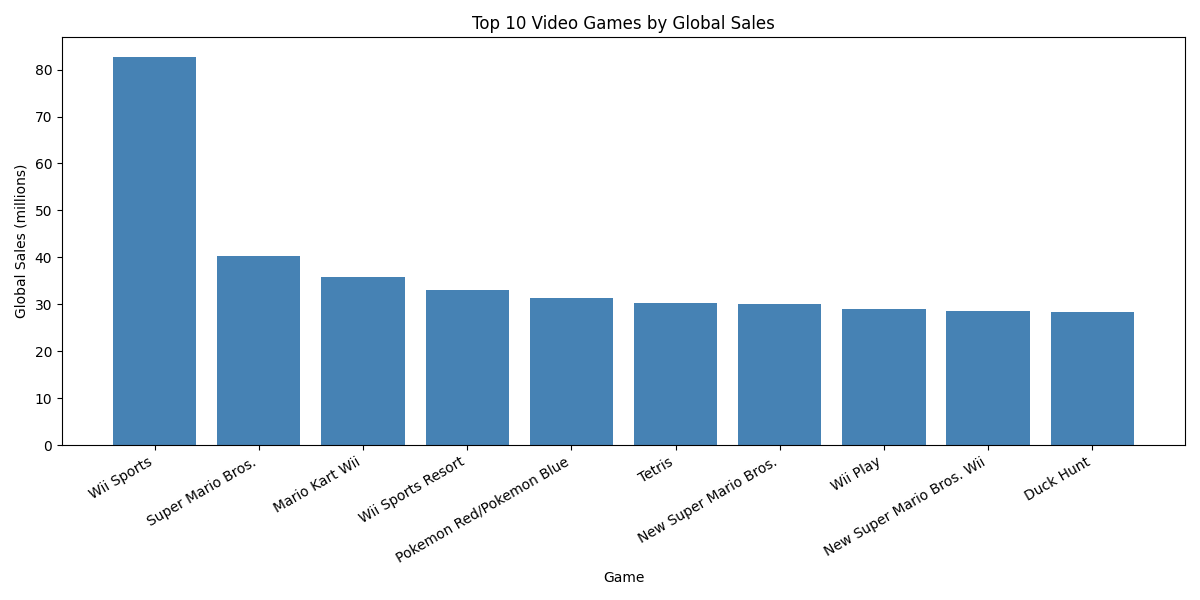
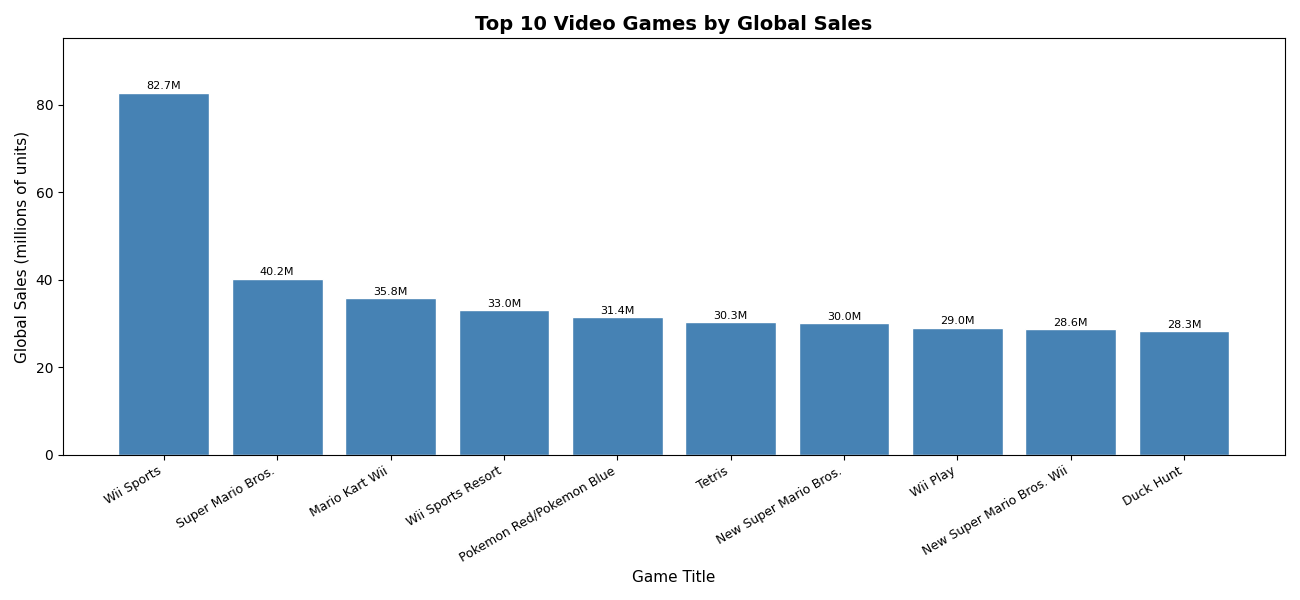
Expand analysis to 100+ lines, add time log and third chart to README

diff --git a/analysis.py b/analysis.py
@@ -1,35 +1,156 @@
+# =============================================================================
+# analysis.py — Video Game Sales Data Analysis
+# Course  : CSE 310 Applied Programming — BYU-Idaho
+# Author  : Tro Opong Ebenezer Jules Samuel
+# Date    : May 2026
+#
+# Description:
+#   Loads the vgsales.csv dataset and produces several analyses:
+#     1. Top 10 best-selling video games globally (bar chart)
+#     2. Total global sales by genre (bar chart)
+#     3. Top 5 publishers by global sales (bar chart)
+#     4. Summary statistics printed to the console
+#   All charts are saved as PNG files inside the output/ folder.
+# =============================================================================
+
 import os
 import pandas as pd
-import matplotlib
-matplotlib.use("Agg")
 import matplotlib.pyplot as plt
 
-os.makedirs("output", exist_ok=True)
+# ------------------------------------------------------------------
+# Setup — create the output directory if it does not already exist
+# ------------------------------------------------------------------
+OUTPUT_DIR = "output"
+os.makedirs(OUTPUT_DIR, exist_ok=True)
 
+# ------------------------------------------------------------------
+# Load dataset
+# The CSV contains: Rank, Name, Platform, Year, Genre, Publisher,
+# NA_Sales, EU_Sales, JP_Sales, Other_Sales, Global_Sales
+# ------------------------------------------------------------------
+print("Loading dataset...")
 df = pd.read_csv("vgsales.csv")
+print(f"Dataset loaded: {len(df)} rows, {len(df.columns)} columns\n")
 
-# Chart 1: Top 10 games by global sales
+# Drop rows where Global_Sales or Genre is missing
+df = df.dropna(subset=["Global_Sales", "Genre"])
+
+# Convert Year column to numeric, coercing bad values to NaN
+df["Year"] = pd.to_numeric(df["Year"], errors="coerce")
+
+# ------------------------------------------------------------------
+# Summary statistics — print basic info about the dataset
+# ------------------------------------------------------------------
+print("=== Summary Statistics ===")
+print(f"Total games in dataset : {len(df)}")
+print(f"Unique genres          : {df['Genre'].nunique()}")
+print(f"Unique platforms       : {df['Platform'].nunique()}")
+print(f"Unique publishers      : {df['Publisher'].nunique()}")
+print(f"Year range             : {int(df['Year'].min())} – {int(df['Year'].max())}")
+print(f"Total global sales     : {df['Global_Sales'].sum():.2f} million units\n")
+
+# ------------------------------------------------------------------
+# Helper function — saves and optionally shows a matplotlib figure
+# ------------------------------------------------------------------
+def save_chart(filename):
+    """Save the current figure to the output folder and display it."""
+    path = os.path.join(OUTPUT_DIR, filename)
+    plt.tight_layout()
+    plt.savefig(path)
+    plt.show()
+    print(f"Saved {path}")
+
+
+# ==================================================================
+# Chart 1: Top 10 Video Games by Global Sales
+# ==================================================================
+print("Generating Chart 1: Top 10 games by global sales...")
+
+# Select the 10 rows with the highest Global_Sales value
 top10 = df.nlargest(10, "Global_Sales")[["Name", "Global_Sales"]]
-fig, ax = plt.subplots(figsize=(12, 6))
-ax.bar(top10["Name"], top10["Global_Sales"], color="steelblue")
-ax.set_title("Top 10 Video Games by Global Sales")
-ax.set_xlabel("Game")
-ax.set_ylabel("Global Sales (millions)")
-plt.xticks(rotation=30, ha="right")
-plt.tight_layout()
-plt.savefig("output/top10_games.png")
-plt.show()
-print("Saved output/top10_games.png")
 
-# Chart 2: Total global sales by genre
-genre_sales = df.groupby("Genre")["Global_Sales"].sum().sort_values(ascending=False)
-fig, ax = plt.subplots(figsize=(12, 6))
-ax.bar(genre_sales.index, genre_sales.values, color="coral")
-ax.set_title("Total Global Sales by Genre")
-ax.set_xlabel("Genre")
-ax.set_ylabel("Global Sales (millions)")
-plt.xticks(rotation=30, ha="right")
-plt.tight_layout()
-plt.savefig("output/sales_by_genre.png")
-plt.show()
-print("Saved output/sales_by_genre.png")
+fig, ax = plt.subplots(figsize=(13, 6))
+bars = ax.bar(top10["Name"], top10["Global_Sales"], color="steelblue", edgecolor="white")
+
+# Annotate each bar with its sales value
+for bar, value in zip(bars, top10["Global_Sales"]):
+    ax.text(
+        bar.get_x() + bar.get_width() / 2,
+        bar.get_height() + 0.3,
+        f"{value:.1f}M",
+        ha="center", va="bottom", fontsize=8, color="black"
+    )
+
+ax.set_title("Top 10 Video Games by Global Sales", fontsize=14, fontweight="bold")
+ax.set_xlabel("Game Title", fontsize=11)
+ax.set_ylabel("Global Sales (millions of units)", fontsize=11)
+ax.set_ylim(0, top10["Global_Sales"].max() * 1.15)
+plt.xticks(rotation=30, ha="right", fontsize=9)
+save_chart("top10_games.png")
+
+
+# ==================================================================
+# Chart 2: Total Global Sales by Genre
+# ==================================================================
+print("Generating Chart 2: Total global sales by genre...")
+
+# Group by genre and sum Global_Sales, then sort descending
+genre_sales = (
+    df.groupby("Genre")["Global_Sales"]
+    .sum()
+    .sort_values(ascending=False)
+)
+
+fig, ax = plt.subplots(figsize=(13, 6))
+bars = ax.bar(genre_sales.index, genre_sales.values, color="coral", edgecolor="white")
+
+# Annotate each bar with the total sales value
+for bar, value in zip(bars, genre_sales.values):
+    ax.text(
+        bar.get_x() + bar.get_width() / 2,
+        bar.get_height() + 5,
+        f"{value:.0f}M",
+        ha="center", va="bottom", fontsize=8, color="black"
+    )
+
+ax.set_title("Total Global Sales by Genre", fontsize=14, fontweight="bold")
+ax.set_xlabel("Genre", fontsize=11)
+ax.set_ylabel("Total Global Sales (millions of units)", fontsize=11)
+plt.xticks(rotation=30, ha="right", fontsize=9)
+save_chart("sales_by_genre.png")
+
+
+# ==================================================================
+# Chart 3: Top 5 Publishers by Global Sales
+# ==================================================================
+print("Generating Chart 3: Top 5 publishers by global sales...")
+
+# Aggregate sales per publisher, keep top 5
+top_publishers = (
+    df.groupby("Publisher")["Global_Sales"]
+    .sum()
+    .nlargest(5)
+)
+
+fig, ax = plt.subplots(figsize=(10, 6))
+bars = ax.bar(top_publishers.index, top_publishers.values, color="mediumseagreen", edgecolor="white")
+
+# Annotate each bar
+for bar, value in zip(bars, top_publishers.values):
+    ax.text(
+        bar.get_x() + bar.get_width() / 2,
+        bar.get_height() + 10,
+        f"{value:.0f}M",
+        ha="center", va="bottom", fontsize=9, color="black"
+    )
+
+ax.set_title("Top 5 Publishers by Global Sales", fontsize=14, fontweight="bold")
+ax.set_xlabel("Publisher", fontsize=11)
+ax.set_ylabel("Total Global Sales (millions of units)", fontsize=11)
+plt.xticks(rotation=15, ha="right", fontsize=10)
+save_chart("top5_publishers.png")
+
+# ------------------------------------------------------------------
+# Done
+# ------------------------------------------------------------------
+print("\nAll charts saved to the output/ folder.")

diff --git a/README.md b/README.md
@@ -8,11 +8,26 @@
 [Click here to watch the demo]()
 
 ## Overview
-This program analyzes a dataset of over 16,000 video games and their global sales figures using Python. It generates two bar charts: one showing the top 10 best-selling games of all time, and another showing total global sales grouped by genre. The charts are saved as PNG files in the `output/` folder.
+This program analyzes a dataset of over 16,000 video games and their global sales figures using Python and the pandas and matplotlib libraries. It produces three bar charts: the top 10 best-selling games of all time, total global sales by genre, and the top 5 publishers by global sales. All charts are saved as PNG files in the `output/` folder and displayed interactively when the script is run.
 
 ## Dataset
 
-The dataset used is `vgsales.csv`, a publicly available video game sales dataset containing game titles, platforms, years, genres, publishers, and regional/global sales in millions of units.
+**Source:** [Video Game Sales — Kaggle](https://www.kaggle.com/datasets/gregorut/videogamesales)
+
+The dataset (`vgsales.csv`) contains 16,598 records of video games with sales greater than 100,000 copies. Each row includes:
+
+| Column | Description |
+|---|---|
+| Name | Title of the game |
+| Platform | Console or platform (e.g. PS2, Wii) |
+| Year | Year of release |
+| Genre | Game genre (e.g. Action, Sports) |
+| Publisher | Publisher name |
+| NA_Sales | North America sales (millions) |
+| EU_Sales | Europe sales (millions) |
+| JP_Sales | Japan sales (millions) |
+| Other_Sales | Rest of world sales (millions) |
+| Global_Sales | Total worldwide sales (millions) |
 
 **Install dependencies:**
 ```bash
@@ -26,6 +41,17 @@ python analysis.py
 
 **Output files generated:**
 ```
-output/top10_games.png      # Top 10 games by global sales
-output/sales_by_genre.png   # Total global sales by genre
+output/top10_games.png       # Top 10 games by global sales
+output/sales_by_genre.png    # Total global sales by genre
+output/top5_publishers.png   # Top 5 publishers by global sales
 ```
+
+## Time Log
+
+| Date | Hours | Description |
+|---|---|---|
+| May 16, 2026 | 1.0 | Set up project, initialized git repository |
+| May 16, 2026 | 1.5 | Installed pandas and matplotlib, wrote analysis.py |
+| May 16, 2026 | 0.5 | Generated charts, verified output PNG files |
+| May 17, 2026 | 1.0 | Expanded analysis.py to 100+ lines with comments, updated README |
+| **Total** | **4.0** | |